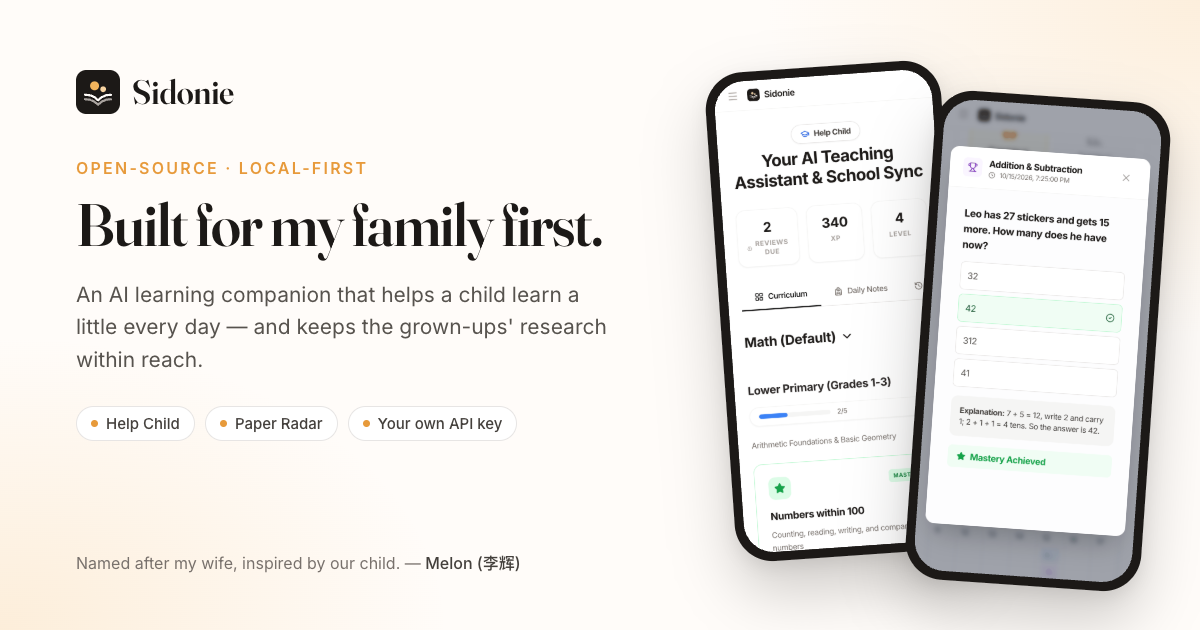
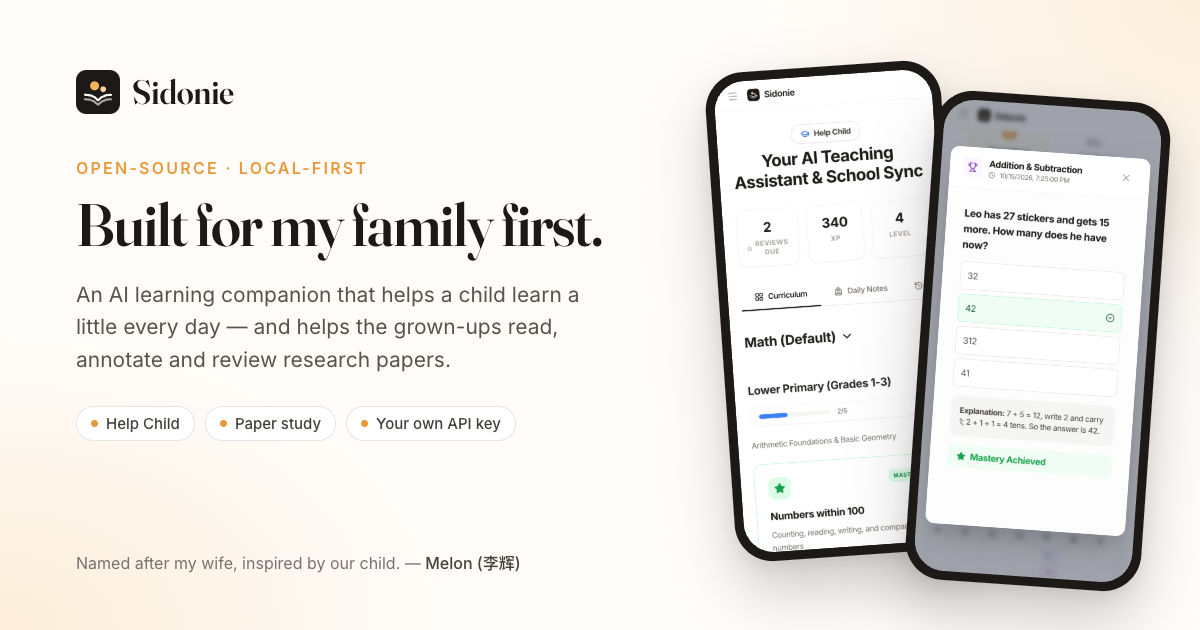
brand: name paper study on the share card and social preview
A one-word chip and line swap fit cleanly; the parent poster had no room for
an extra line, so it is only re-rendered to pick up the 伴学 sidebar.

Changed region(s): [[0.0617, 0.5127, 0.4933, 0.6032], [0.3083, 0.6635, 0.4317, 0.6937], [0.2158, 0.6635, 0.2775, 0.6937]]

diff --git a/docs/assets/brand/src/share-card-en.html b/docs/assets/brand/src/share-card-en.html
@@ -26,8 +26,8 @@
     <div class="brand"><img src="../logo-mark.svg"><span class="serif">Sidonie</span></div>
     <div class="eyebrow">Open-source · local-first</div>
     <h1 class="serif">Built for my family first.</h1>
-    <p>An AI learning companion that helps a child learn a little every day — and keeps the grown-ups' research within reach.</p>
-    <div class="chips"><span class="chip"><span class="dot"></span>Help Child</span><span class="chip"><span class="dot"></span>Paper Radar</span><span class="chip"><span class="dot"></span>Your own API key</span></div>
+    <p>An AI learning companion that helps a child learn a little every day — and helps the grown-ups read, annotate and review research papers.</p>
+    <div class="chips"><span class="chip"><span class="dot"></span>Help Child</span><span class="chip"><span class="dot"></span>Paper study</span><span class="chip"><span class="dot"></span>Your own API key</span></div>
   </div>
   <div class="story">Named after my wife, inspired by our child. — <b>Melon (李辉)</b></div>
   <div class="phone p1"><img src="../../../screenshots/mobile-help-child.png"></div>

diff --git a/docs/assets/brand/src/social-preview.html b/docs/assets/brand/src/social-preview.html
@@ -29,7 +29,7 @@
     <h1 class="serif">An AI learning<br>companion for <em>families</em>.</h1>
     <ul>
       <li><span class="dot"></span><span><b>Help Child</b> — curriculum, quizzes, spaced review</span></li>
-      <li><span class="dot"></span><span><b>Paper Radar</b> — the grown-ups' research corner</span></li>
+      <li><span class="dot"></span><span><b>Paper study</b> — read, annotate, review, cite</span></li>
       <li><span class="dot"></span><span><b>Private by design</b> — local-first, your own key</span></li>
     </ul>
   </div>
